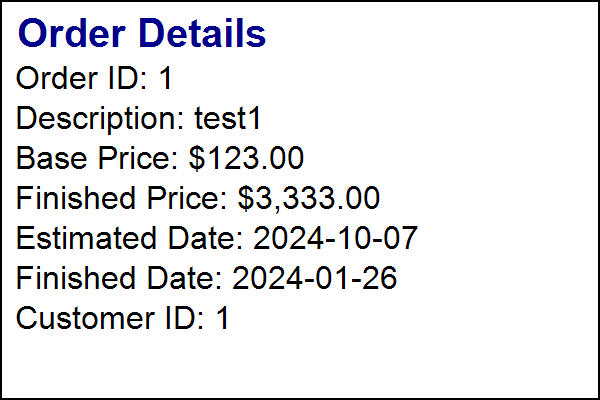
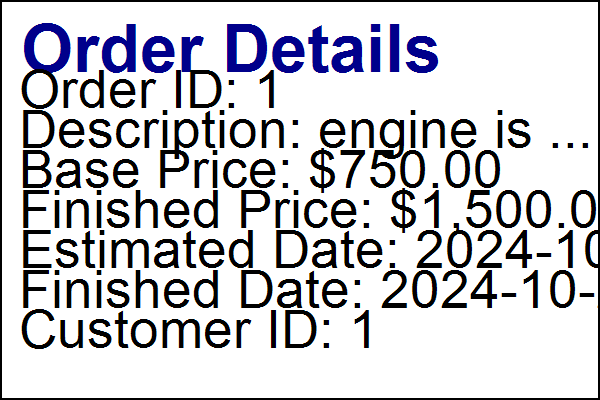
refractor the report page

Changed region(s): [[0.03, 0.03, 1.0, 0.87], [0.9, 0.36, 0.99, 0.39], [0.99, 0.66, 1.0, 0.69]]

diff --git a/Report.xaml b/Report.xaml
@@ -6,24 +6,85 @@
         xmlns:local="clr-namespace:WeldingManagerApp"
         mc:Ignorable="d"
         Title="Report" Height="450" Width="800">
-    <Grid>
-        <Label Content="Customer Id" HorizontalAlignment="Left" Margin="142,74,0,0" VerticalAlignment="Top"/>
-        <TextBox x:Name="CustomerIdBox" HorizontalAlignment="Left" Height="26" Margin="265,74,0,0" TextWrapping="Wrap" Text="" VerticalAlignment="Top" Width="108"/>
+    <Grid Margin="0,0,0,-6">
+        <!-- Define two rows: Top (Auto) and Bottom (*) -->
+        <Grid.RowDefinitions>
+            <RowDefinition Height="Auto" MinHeight="130"/>
+            <!-- Top part, currently empty -->
+            <RowDefinition/>
+            <!-- Bottom part, where your elements will go -->
+        </Grid.RowDefinitions>
+        <StackPanel Grid.Row="0" Margin="10,10,10,10">
+            <Label Content="Filtered Orders" FontSize="16" FontWeight="Bold" Margin="10"/>
+            <ListBox x:Name="OrderListBox" HorizontalAlignment="Left" Height="200" Width="780">
+                <ListBox.ItemTemplate>
+                    <DataTemplate>
+                        <StackPanel Orientation="Horizontal" Margin="5">
+                            <TextBlock Text="Order ID: " FontWeight="Bold"/>
+                            <TextBlock Text="{Binding OrderId}" Margin="5,0"/>
 
-        <DatePicker x:Name="StartDateDatePicker" HorizontalAlignment="Left" Margin="268,125,0,0" VerticalAlignment="Top"/>
-        <Label Content="from" HorizontalAlignment="Left" Margin="142,124,0,0" VerticalAlignment="Top" Width="75"/>
+                            <TextBlock Text="Customer ID: " FontWeight="Bold"/>
+                            <TextBlock Text="{Binding CustomerId}" Margin="5,0"/>
 
-        <Label Content="to" HorizontalAlignment="Left" Margin="424,125,0,0" VerticalAlignment="Top" Width="69"/>
-        <DatePicker x:Name="EndDateDatePicker" HorizontalAlignment="Left" Margin="516,127,0,0" VerticalAlignment="Top"/>
-        <Label Content="price from" HorizontalAlignment="Left" Margin="142,191,0,0" VerticalAlignment="Top"/>
-        <TextBox x:Name="StartPriceBox" HorizontalAlignment="Left" Margin="259,195,0,0" TextWrapping="Wrap" VerticalAlignment="Top" Width="120"/>
-        <Label Content="to&#xD;&#xA;" HorizontalAlignment="Left" Margin="421,187,0,0" VerticalAlignment="Top" Height="30" Width="72"/>
-        <TextBox x:Name="EndPriceBox" HorizontalAlignment="Left" Margin="516,195,0,0" TextWrapping="Wrap" VerticalAlignment="Top" Width="120"/>
-        <Label Content="Order Id" HorizontalAlignment="Left" Margin="142,247,0,0" VerticalAlignment="Top" Width="65"/>
-        <TextBox x:Name="OrderIdBox" HorizontalAlignment="Left" Margin="259,247,0,0" TextWrapping="Wrap" VerticalAlignment="Top" Width="120"/>
-        <Button x:Name="FilterBtn" Content="Filter" HorizontalAlignment="Left" Height="25" Margin="377,344,0,0" VerticalAlignment="Top" Width="116" Click="FilterBtn_Click"/>
+                            <TextBlock Text="Finished Price: " FontWeight="Bold"/>
+                            <TextBlock Text="{Binding lastPrice}" Margin="5,0"/>
+
+                            <TextBlock Text="Order Date: " FontWeight="Bold"/>
+                            <TextBlock Text="{Binding EstimatedTime, StringFormat={}{0:yyyy-MM-dd}}" Margin="5,0"/>
+                        </StackPanel>
+                    </DataTemplate>
+                </ListBox.ItemTemplate>
+            </ListBox>
+        </StackPanel>
 
 
 
+        <!-- Bottom Part (StackPanel to organize your elements vertically) -->
+        <StackPanel Grid.Row="1" Margin="20,20,20,20">
+
+            <!-- Customer Id -->
+            <StackPanel Orientation="Horizontal" Margin="0,10,0,0">
+                <Label Content="Customer Id" VerticalAlignment="Center" Width="120"/>
+                <TextBox x:Name="CustomerIdBox" Width="120" Height="26"/>
+            </StackPanel>
+
+            <!-- Start Date -->
+            <StackPanel Orientation="Horizontal" Margin="0,10,0,0">
+                <Label Content="from" VerticalAlignment="Center" Width="120"/>
+                <DatePicker x:Name="StartDateDatePicker" Width="150"/>
+            </StackPanel>
+
+            <!-- End Date -->
+            <StackPanel Orientation="Horizontal" Margin="0,10,0,0">
+                <Label Content="to" VerticalAlignment="Center" Width="120"/>
+                <DatePicker x:Name="EndDateDatePicker" Width="150"/>
+            </StackPanel>
+
+            <!-- Price Range (Start) -->
+            <StackPanel Orientation="Horizontal" Margin="0,10,0,0">
+                <Label Content="price from" VerticalAlignment="Center" Width="120"/>
+                <TextBox x:Name="StartPriceBox" Width="120"/>
+            </StackPanel>
+
+            <!-- Price Range (End) -->
+            <StackPanel Orientation="Horizontal" Margin="0,10,0,0">
+                <Label Content="to" VerticalAlignment="Center" Width="120"/>
+                <TextBox x:Name="EndPriceBox" Width="120"/>
+            </StackPanel>
+
+            <!-- Order Id -->
+            <StackPanel Orientation="Horizontal" Margin="0,10,0,0">
+                <Label Content="Order Id" VerticalAlignment="Center" Width="120"/>
+                <TextBox x:Name="OrderIdBox" Width="120"/>
+            </StackPanel>
+
+            <!-- Filter Button -->
+            <StackPanel Orientation="Horizontal" HorizontalAlignment="Left" Margin="0,10,0,0">
+                <Button x:Name="FilterBtn" Content="Filter" Width="120" Margin="10,0,0,0" Click="FilterBtn_Click"/>
+                <Button x:Name="CreateImageBtn" Content="Clear" Width="120" Margin="10,0,0,0" Click="ClearBtn_Click"/>
+                <Button x:Name="ExportBtn" Content="Export" Width="120" Margin="10,0,0,0" Click="ExportBtn_Click"/>
+            </StackPanel>
+        </StackPanel>
     </Grid>
+
 </Window>

diff --git a/Report.xaml.cs b/Report.xaml.cs
@@ -27,7 +27,8 @@ namespace WeldingManagerApp
     {
         private ObservableCollection<Order> Orders;
         private WeldingManagerDbContext _context;
-
+        public List<Order> FilteredOrders;
+        int help = 0;
         public Report(WeldingManagerDbContext dbcontext)
         {
             InitializeComponent();
@@ -37,21 +38,6 @@ namespace WeldingManagerApp
         }
 
         private void FilterBtn_Click(object sender, RoutedEventArgs e)
-        {
-            if (string.IsNullOrEmpty(OrderIdBox.Text))
-            {
-                GlobalFilter();
-            }
-            else
-            {
-                int orderId=int.Parse(OrderIdBox.Text);
-                var order=_context.Orders.First(o => o.OrderId == orderId);
-                string baseDirectory = Directory.GetParent(AppDomain.CurrentDomain.BaseDirectory).Parent.Parent.Parent.FullName;
-                string folderPath = System.IO.Path.Combine(baseDirectory, "Orders Photos");
-                CreateOrderImage(order, folderPath);
-            }
-        }
-        private void GlobalFilter() 
         {
             if (string.IsNullOrEmpty(CustomerIdBox.Text))
             {
@@ -65,21 +51,23 @@ namespace WeldingManagerApp
                 int MinPrice = int.Parse(StartPriceBox.Text);
                 int MaxPrice = int.Parse(EndPriceBox.Text);
                 int UserId = int.Parse(CustomerIdBox.Text);
-                var FilteredOrders = _context.Orders.Where(o => o.EndTime > StartDate.Value
+                FilteredOrders = _context.Orders.Where(o => o.EndTime > StartDate.Value
                                                      && o.EndTime < EndDate.Value
                                                      && o.lastPrice >= MinPrice
                                                      && o.lastPrice <= MaxPrice
-                                                     && o.CustomerId== UserId).ToList();
-                if (FilteredOrders.Any())
-                {
-                    SaveOrdersToExcel(FilteredOrders, StartDate.Value, EndDate.Value, MinPrice, MaxPrice,UserId);
-                }
-                else
+                                                     && o.CustomerId == UserId).ToList();
+                
+                if(!FilteredOrders.Any()) 
                 {
                     MessageBox.Show("No orders found for the selected criteria.", "No Data", MessageBoxButton.OK, MessageBoxImage.Information);
                 }
+                help = 1;
+                OrderListBox.ItemsSource = FilteredOrders;
+
             }
         }
+
+        
         private void DatePriceFilter()
         {
             DateTime? StartDate=StartDateDatePicker.SelectedDate;
@@ -88,18 +76,17 @@ namespace WeldingManagerApp
             int MinPrice = int.Parse(StartPriceBox.Text);
             int MaxPrice=int.Parse(EndPriceBox.Text);
 
-            var FilteredOrders = _context.Orders.Where(o => o.EstimatedTime > StartDate.Value
+            FilteredOrders = _context.Orders.Where(o => o.EstimatedTime > StartDate.Value
                                                      && o.EstimatedTime < EndDate.Value
                                                      && o.lastPrice >= MinPrice
                                                      && o.lastPrice <= MaxPrice).ToList();
-            if (FilteredOrders.Any())
-            {
-                SaveOrdersToExcel2(FilteredOrders, StartDate.Value, EndDate.Value, MinPrice, MaxPrice);
-            }
-            else
+            
+            if(!FilteredOrders.Any()) 
             {
                 MessageBox.Show("No orders found for the selected criteria.", "No Data", MessageBoxButton.OK, MessageBoxImage.Information);
             }
+            help = 2;
+            OrderListBox.ItemsSource = FilteredOrders;
 
         }
         
@@ -235,6 +222,28 @@ namespace WeldingManagerApp
             // Save the image
             string imageFilePath = System.IO.Path.Combine(folderPath, $"Order_{order.OrderId}.png");
             bitmap.Save(imageFilePath, System.Drawing.Imaging.ImageFormat.Png);
+        }
+
+        private void ClearBtn_Click(object sender, RoutedEventArgs e)
+        {
+            
+        }
+
+        private void ExportBtn_Click(object sender, RoutedEventArgs e)
+        {
+            if (help == 1)
+            {
+                var start=StartDateDatePicker.SelectedDate ?? DateTime.MinValue;
+                var end=EndDateDatePicker.SelectedDate ?? DateTime.MinValue;
+                SaveOrdersToExcel(FilteredOrders,start,end,int.Parse(StartPriceBox.Text),int.Parse(EndPriceBox.Text),int.Parse(CustomerIdBox.Text));
+            }
+            if (help == 2) 
+            {
+                var start = StartDateDatePicker.SelectedDate ?? DateTime.MinValue;
+                var end = EndDateDatePicker.SelectedDate ?? DateTime.MinValue;
+                SaveOrdersToExcel2(FilteredOrders, start, end, int.Parse(StartPriceBox.Text), int.Parse(EndPriceBox.Text));
+
+            }
         }
     }
 }

diff --git a/Data/WeldingManagerDbContext.cs b/Data/WeldingManagerDbContext.cs
@@ -14,7 +14,7 @@ namespace WeldingManagerApp.Data
         public DbSet<Order> Orders { get; set; }
         protected override void OnConfiguring(DbContextOptionsBuilder optionsBuilder)
         {
-            optionsBuilder.UseSqlServer(@"Data Source=(localdb)\MSSQLLocalDB;Initial Catalog=WeldingManagerDB;Integrated Security=True;Connect Timeout=30;Encrypt=False;Trust Server Certificate=False;Application Intent=ReadWrite;Multi Subnet Failover=False");
+            optionsBuilder.UseSqlServer(@"Data Source=localhost;Initial Catalog=WeldingManagerDB;Integrated Security=True;Connect Timeout=30;Encrypt=True;Trust Server Certificate=True;Application Intent=ReadWrite;Multi Subnet Failover=False");
         }
     }
 }

diff --git a/Migrations/20241012114105_initial-create.Designer.cs b/Migrations/20241012114105_initial-create.Designer.cs
@@ -12,7 +12,7 @@ using WeldingManagerApp.Data;
 namespace WeldingManagerApp.Migrations
 {
     [DbContext(typeof(WeldingManagerDbContext))]
-    [Migration("20241011234955_initial-create")]
+    [Migration("20241012114105_initial-create")]
     partial class initialcreate
     {
         /// <inheritdoc />
